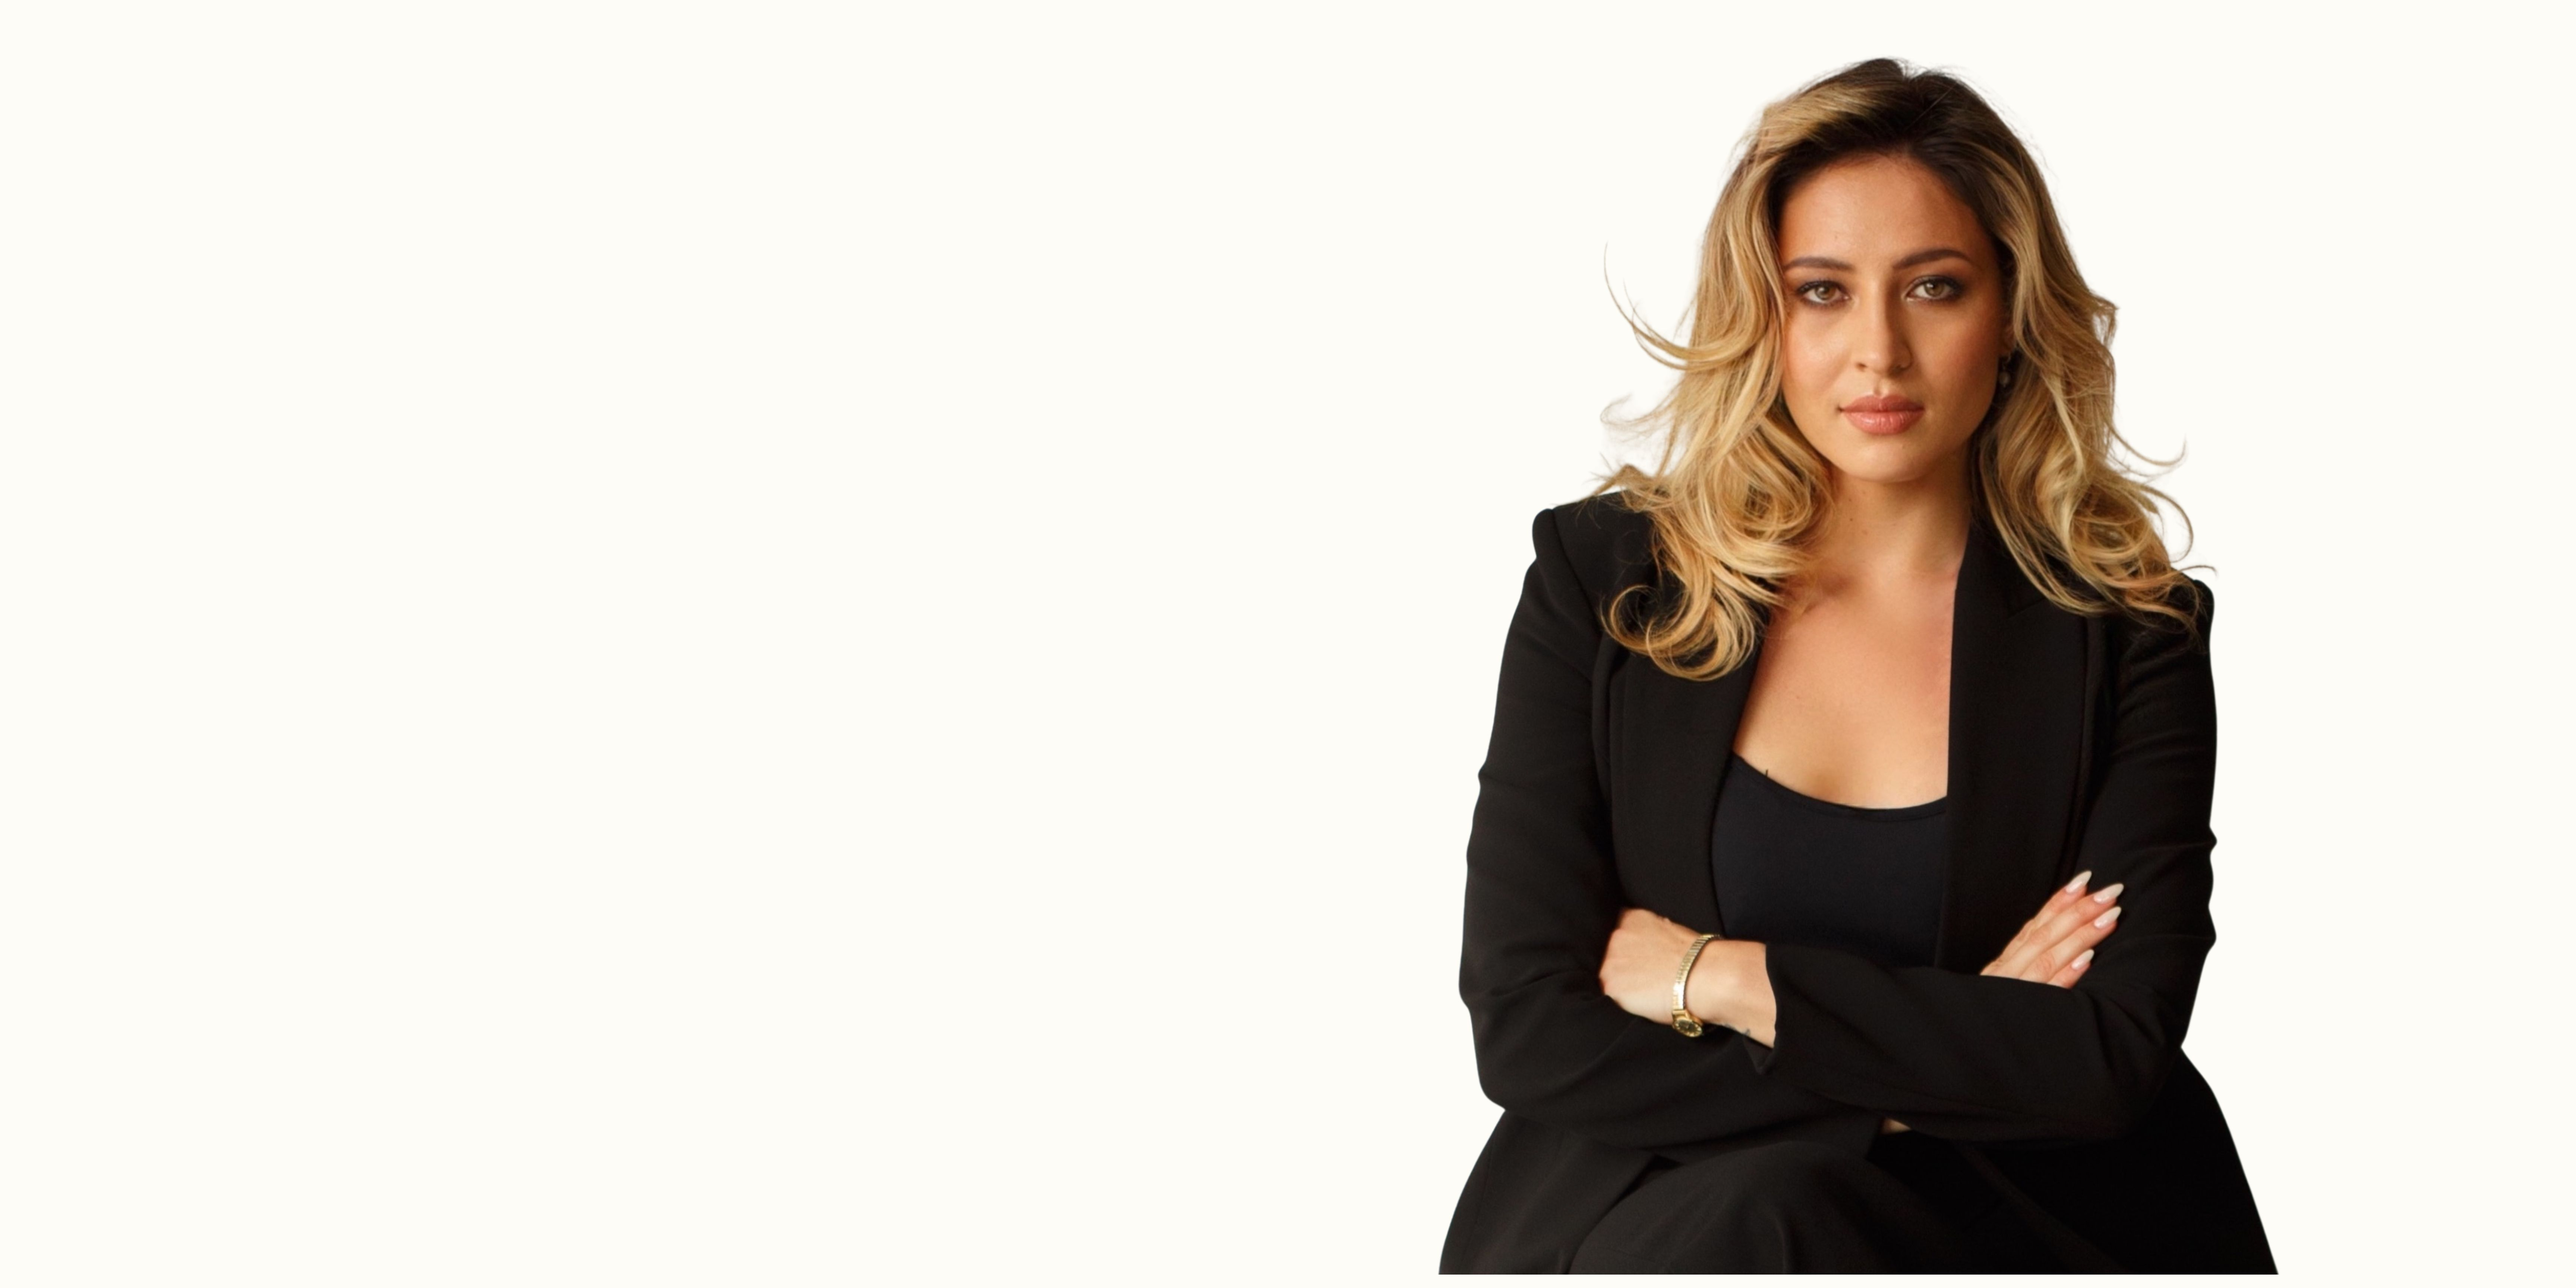
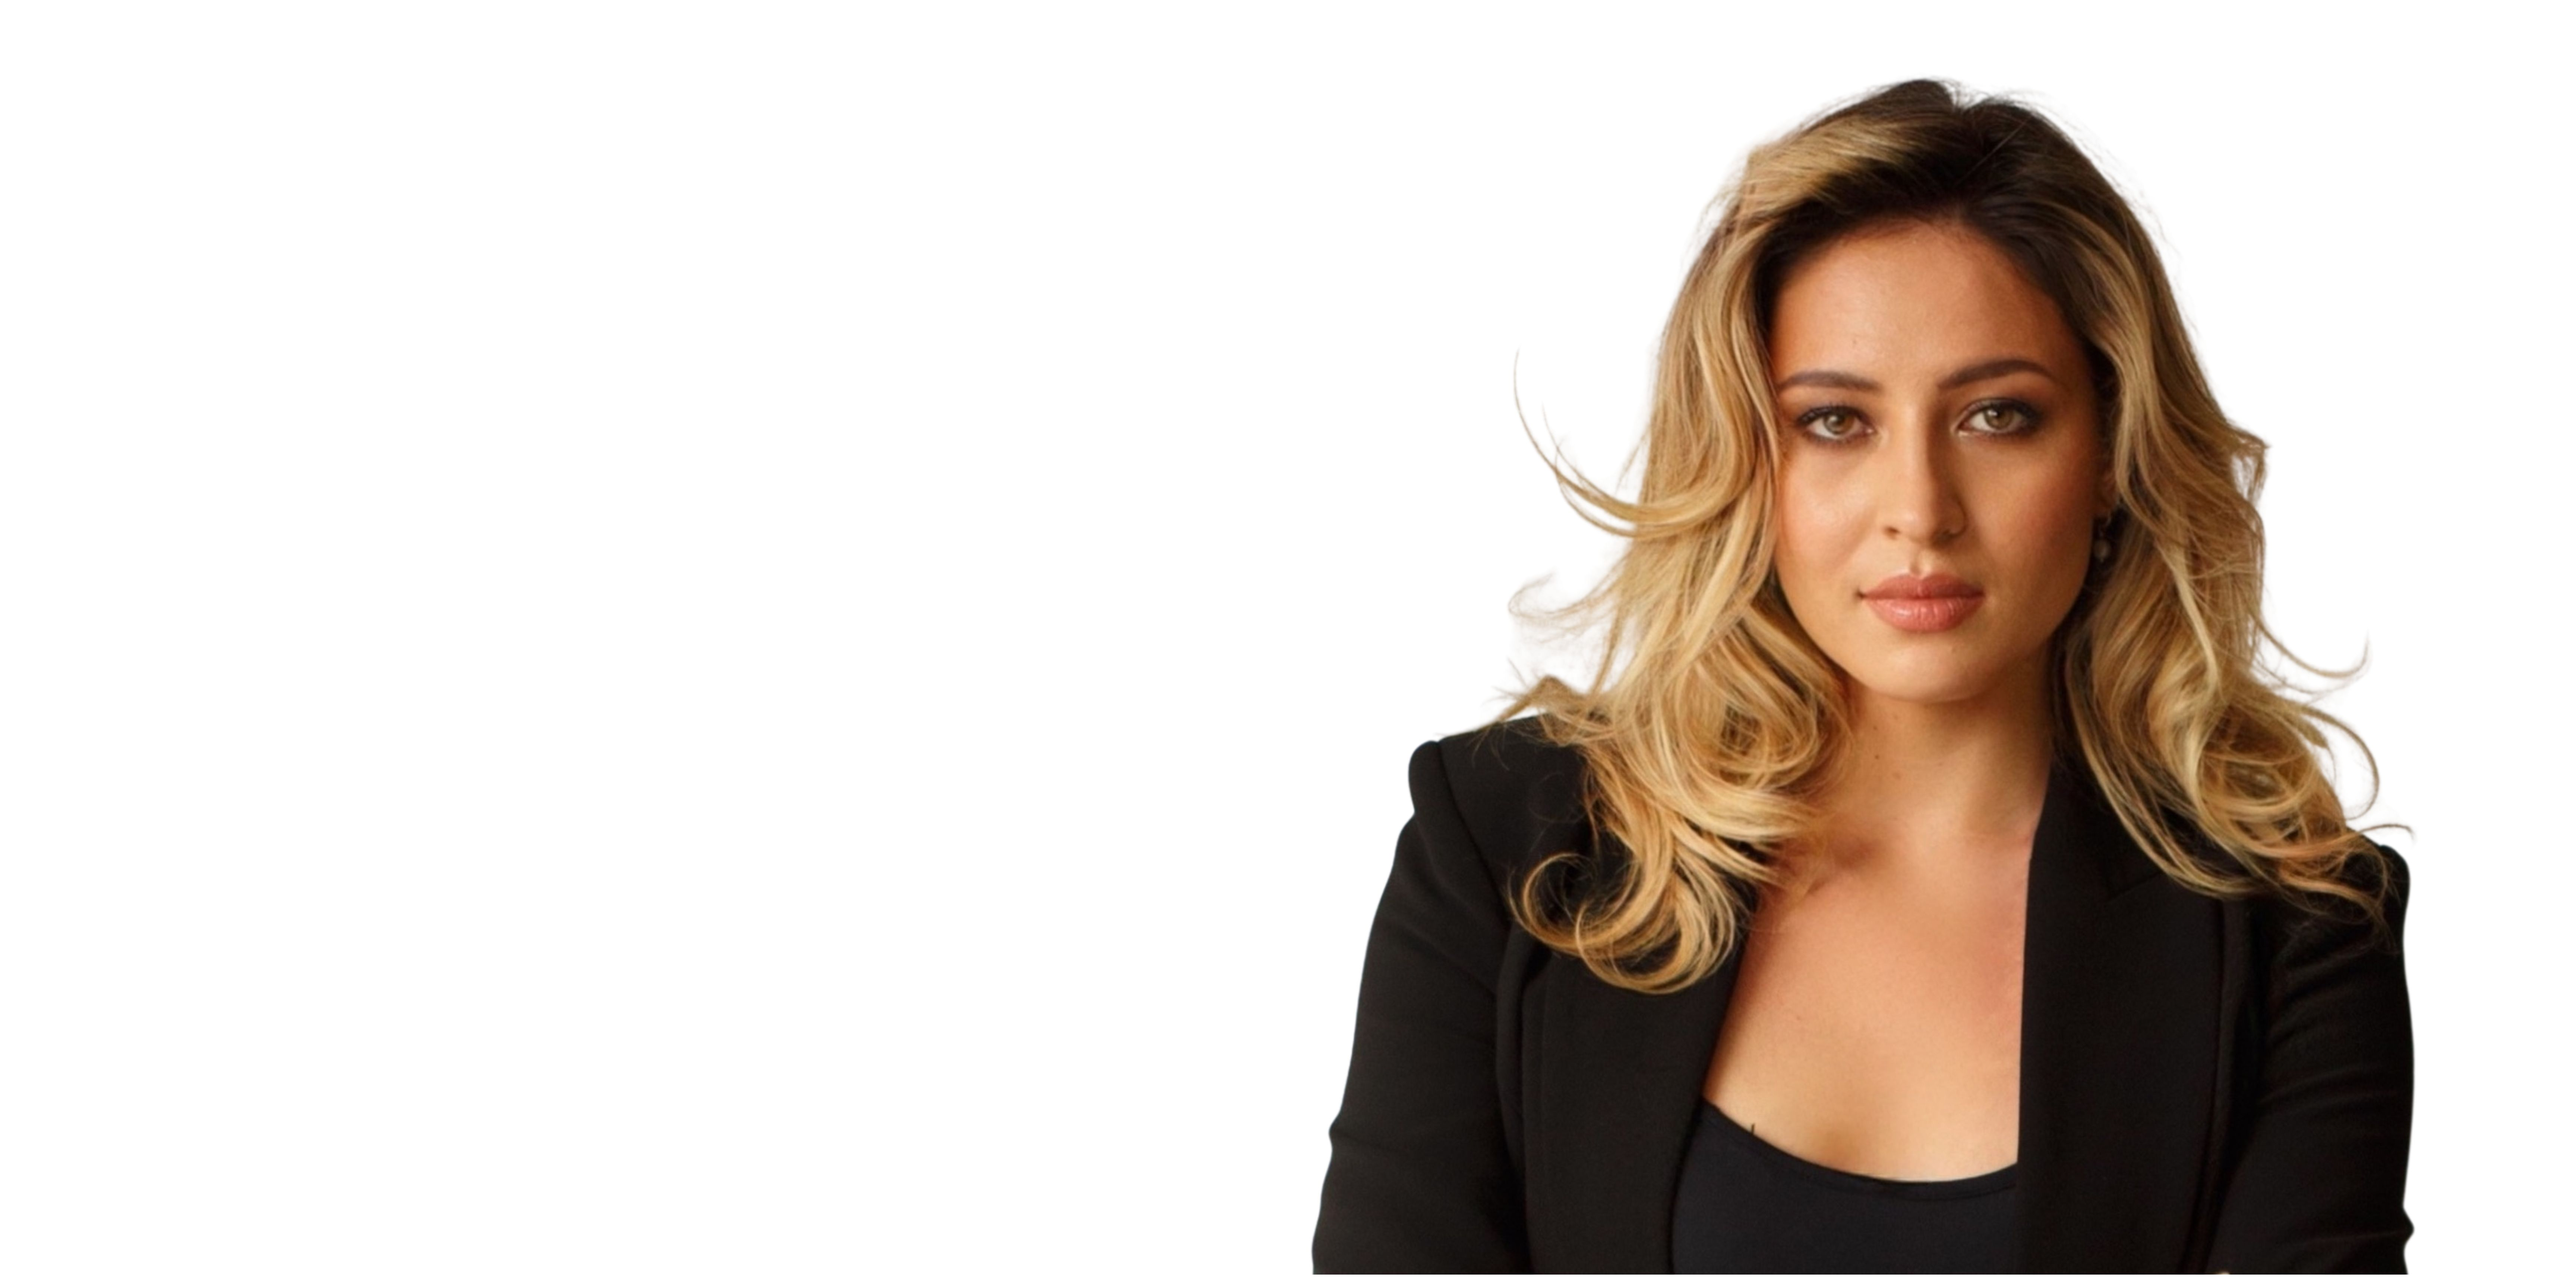
New portrait (subject right-framed), blended ivory gradients all edges
https://claude.ai/code/session_01VBX8g1Rc56duHdqzwuzyqS

Changed region(s): [[0.5, 0.0312, 0.9375, 1.0]]

diff --git a/styles.css b/styles.css
@@ -351,7 +351,7 @@ ul { list-style: none; }
   display: block;
 }
 
-/* Gradient fades: left (for text readability), top, bottom */
+/* Gradient blends photo edges into ivory background */
 .hero::before {
   content: '';
   position: absolute;
@@ -361,13 +361,13 @@ ul { list-style: none; }
   background:
     linear-gradient(to right,
       var(--bg) 0%,
-      var(--bg) 30%,
-      color-mix(in srgb, var(--bg) 85%, transparent) 45%,
-      color-mix(in srgb, var(--bg) 40%, transparent) 58%,
-      transparent 72%),
-    linear-gradient(to left, var(--bg) 0%, transparent 12%),
-    linear-gradient(to bottom, var(--bg) 0%, transparent 12%),
-    linear-gradient(to top, var(--bg) 0%, transparent 20%);
+      var(--bg) 38%,
+      color-mix(in srgb, var(--bg) 70%, transparent) 52%,
+      color-mix(in srgb, var(--bg) 20%, transparent) 65%,
+      transparent 78%),
+    linear-gradient(to left,  var(--bg) 0%, transparent 10%),
+    linear-gradient(to bottom, var(--bg) 0%, transparent 10%),
+    linear-gradient(to top,    var(--bg) 0%, transparent 18%);
 }
 
 /* Text sits above both the image and the gradient overlay */

diff --git a/about.html b/about.html
@@ -14,7 +14,7 @@
     })();
   </script>
 
-  <link rel="stylesheet" href="styles.css?v=11" />
+  <link rel="stylesheet" href="styles.css?v=12" />
 </head>
 <body>
 

diff --git a/index.html b/index.html
@@ -15,7 +15,7 @@
     })();
   </script>
 
-  <link rel="stylesheet" href="styles.css?v=11" />
+  <link rel="stylesheet" href="styles.css?v=12" />
 </head>
 <body>
 

diff --git a/method.html b/method.html
@@ -14,7 +14,7 @@
     })();
   </script>
 
-  <link rel="stylesheet" href="styles.css?v=11" />
+  <link rel="stylesheet" href="styles.css?v=12" />
 </head>
 <body>
 

diff --git a/philosophy.html b/philosophy.html
@@ -14,7 +14,7 @@
     })();
   </script>
 
-  <link rel="stylesheet" href="styles.css?v=11" />
+  <link rel="stylesheet" href="styles.css?v=12" />
 </head>
 <body>
 

diff --git a/services.html b/services.html
@@ -14,7 +14,7 @@
     })();
   </script>
 
-  <link rel="stylesheet" href="styles.css?v=11" />
+  <link rel="stylesheet" href="styles.css?v=12" />
 </head>
 <body>
 
